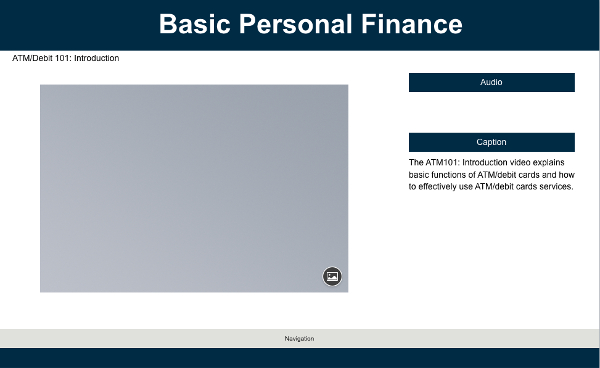
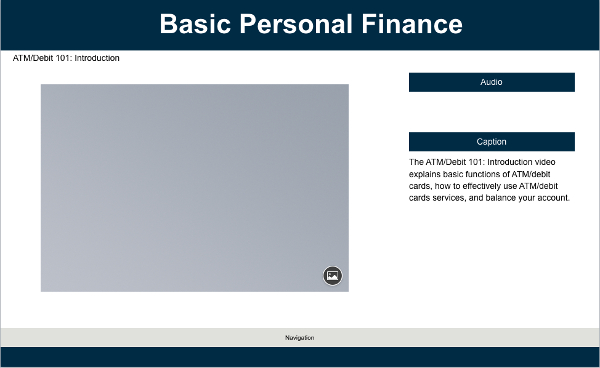
updated file names, add reference page, add links to connect new pages, corrected atm/debit mistakes,

diff --git a/module3/references.html b/module3/references.html
@@ -21,9 +21,15 @@
 			<div id="main-info">
 				<article>
 					<header>
-						<h1> ATM/Debit </h1>
+						<h1>References</h1>
 					</header>
-					<img src="images/atm-debit.jpg" alt="ATM/Debit" title="Purpose of ATM/Debit."/>
+					<p class="list">
+						<strong>Banking:</strong><br/><br/>
+						<strong>Insurance:</strong><br/><br/>
+						<strong>Credit:</strong><br/><br/>
+						https://www.flickr.com/photos/68751915@N05/6280507539<br/>
+					</p>
+					<br/><br/>
 				</article>
 			</div>
 			<div id="aside-info">
@@ -38,10 +44,7 @@
 						<p id="aside-title-audio">Captions</p>
 					</header>
 				<div id="transcript">
-					Learners will be able to describe basic ATM/debit card functions, how to effectively use ATM/debit card services,
-					and how to balance an account after completing this section of the Banking module.  
-					The video defines key ATM/debit card terms and begins with questions students should consider
-					when using an ATM/debit card.
+					Our information and images were either created by Basic Personal Finance in house or obtained through Creative Commons.
 				</div>
 				</aside>
 			</div>
@@ -49,16 +52,11 @@
 		
 		<div id="sub-navigation">
 			<nav>
-				<a href="page-01.html"> Banking |</a>
-    			<a href="page-11.html"> ATM/Debit 101 |</a>
-    			<a href="page-12.html"> ATM/Debit 102 |</a>
-    			<a href="page-13.html"> ATM/Debit 103 |</a>
-    			<a href="quiz-1.html" id="quiz-link"> Banking Quiz</a>
+				<!--- include your sub-navigation links, if any, here --->
 			</nav>
 		</div>
 		<div id="navigation">
 			<nav>
-			
 			</nav>
 		</div>
 		</div>

diff --git a/module3/page-43.html b/module3/page-43.html
@@ -38,7 +38,7 @@
 						<p id="aside-title-audio">Captions</p>
 					</header>
 				<div id="transcript">
-					Congratulations!  You have earned a 70% or better on the Banking, Insurance, and Credit modules of Basic Personal Finance.
+					Congratulations!  You have passed the Banking, Insurance, and Credit modules of Basic Personal Finance.
 					Please print out your certificate of completion for your records.
 				</div>
 				</aside>
@@ -47,7 +47,7 @@
 		
 		<div id="sub-navigation">
 			<nav>
-				<!--- include your sub-navigation links, if any, here --->
+				<a href="references.html"> References |</a>
 			</nav>
 		</div>
 		<!-- <div id="navigation">

diff --git a/module3/page-30.html b/module3/page-30.html
@@ -23,7 +23,7 @@
 					<header>
 						<h1> Finance </h1>
 					</header>
-					<img src="images/financingintro.jpg" alt="Introduction to Financing" title="Introduction to Financing"/>
+					<img src="images/financing-intro.jpg" alt="Introduction to Financing" title="Introduction to Financing"/>
 				</article>
 			</div>
 			<div id="aside-info">

diff --git a/module3/page-31.html b/module3/page-31.html
@@ -23,7 +23,7 @@
 					<header>
 						<h1> Finance 101 </h1>
 					</header>
-					<img src="images/closedendcredit.jpg" alt="Closed-End Credit" title="Closed-End Credit"/>
+					<img src="images/closed-end-credit.jpg" alt="Closed-End Credit" title="Closed-End Credit"/>
 				</article>
 			</div>
 			<div id="aside-info">

diff --git a/module3/page-32.html b/module3/page-32.html
@@ -23,7 +23,7 @@
 					<header>
 						<h1> Finance 102</h1>
 					</header>
-					<img src="images/revolvingcredit.jpg" alt="Revolving Credit" title="Revolving Credit"/>
+					<img src="images/revolving-credit.jpg" alt="Revolving Credit" title="Revolving Credit"/>
 				</article>
 			</div>
 			<div id="aside-info">

diff --git a/module3/page-29.html b/module3/page-29.html
@@ -23,7 +23,7 @@
 					<header>
 						<h1> Credit </h1>
 					</header>
-					<img src="images/creditmainsized.jpg" alt="Credit Main" title="Introduction to Credit"/>
+					<img src="images/credit-main-sized.jpg" alt="Credit Main" title="Introduction to Credit"/>
 				</article>
 			</div>
 			<div id="aside-info">

diff --git a/module3/page-33.html b/module3/page-33.html
@@ -23,7 +23,7 @@
 					<header>
 						<h1> Finance 103 </h1>
 					</header>
-					<img src="images/creditcapacity.jpg" alt="Credit Capacity" title="Credit Capacity"/>
+					<img src="images/credit-capacity.jpg" alt="Credit Capacity" title="Credit Capacity"/>
 				</article>
 			</div>
 			<div id="aside-info">

diff --git a/module3/quiz-3.html b/module3/quiz-3.html
@@ -46,7 +46,8 @@
 		
 		<div id="sub-navigation">
 			<nav>
-				<a href="page-43.html"> Basic Personal Finance Certificate</a>
+				<a href="page-43.html"> Basic Personal Finance Certificate |</a>
+				<a href="references.html"> References |</a>
 			</nav>
 		</div>
 		<div id="navigation">
